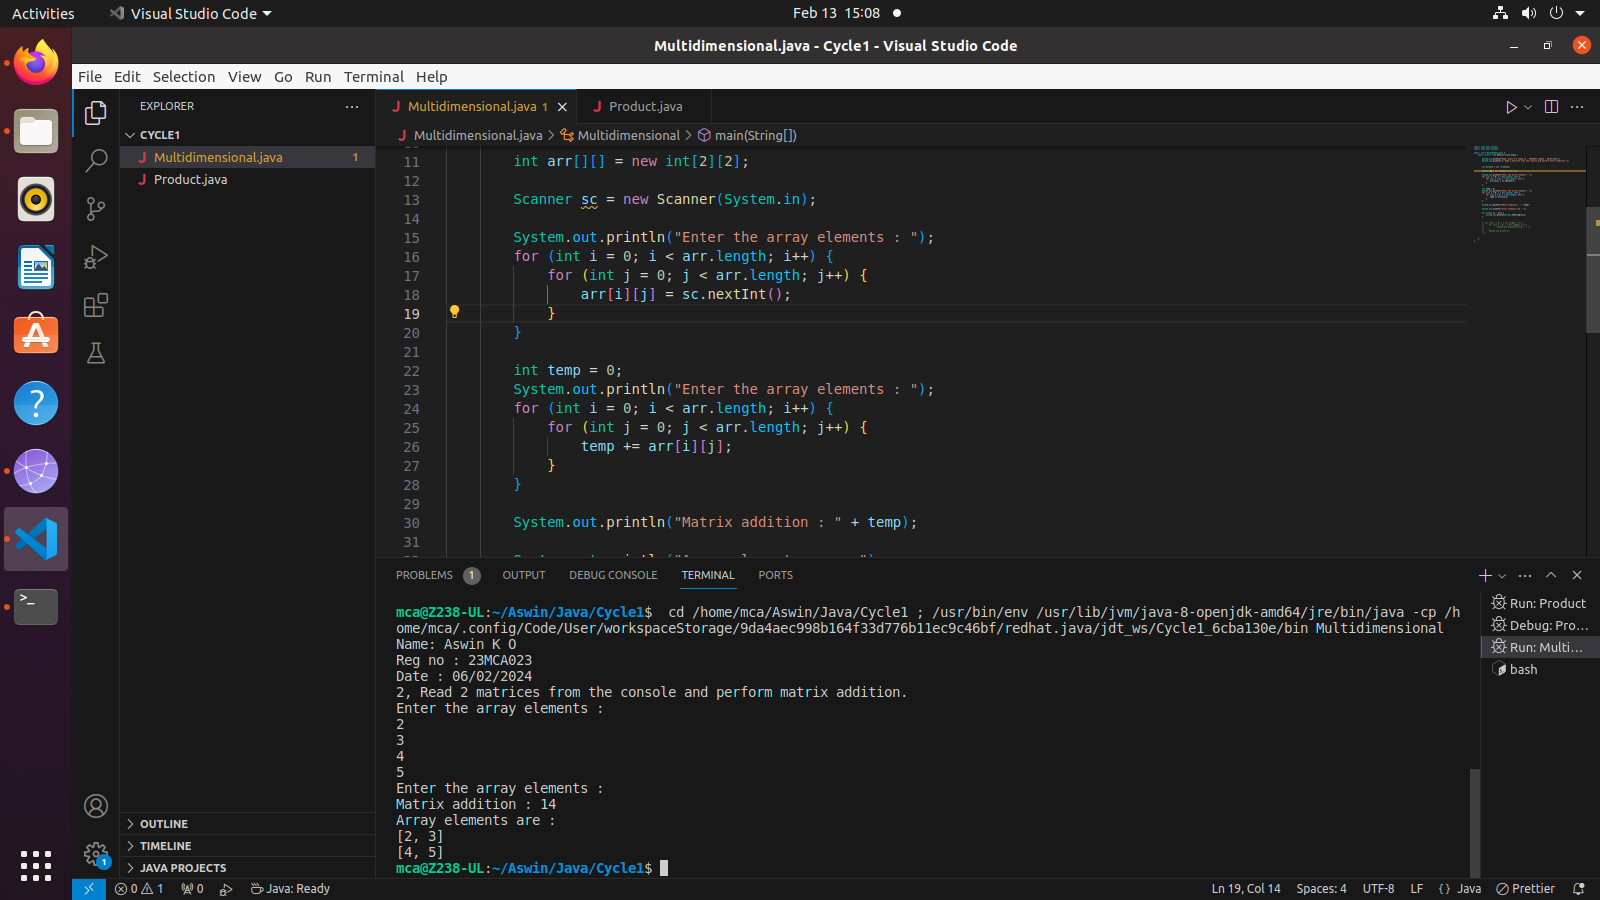
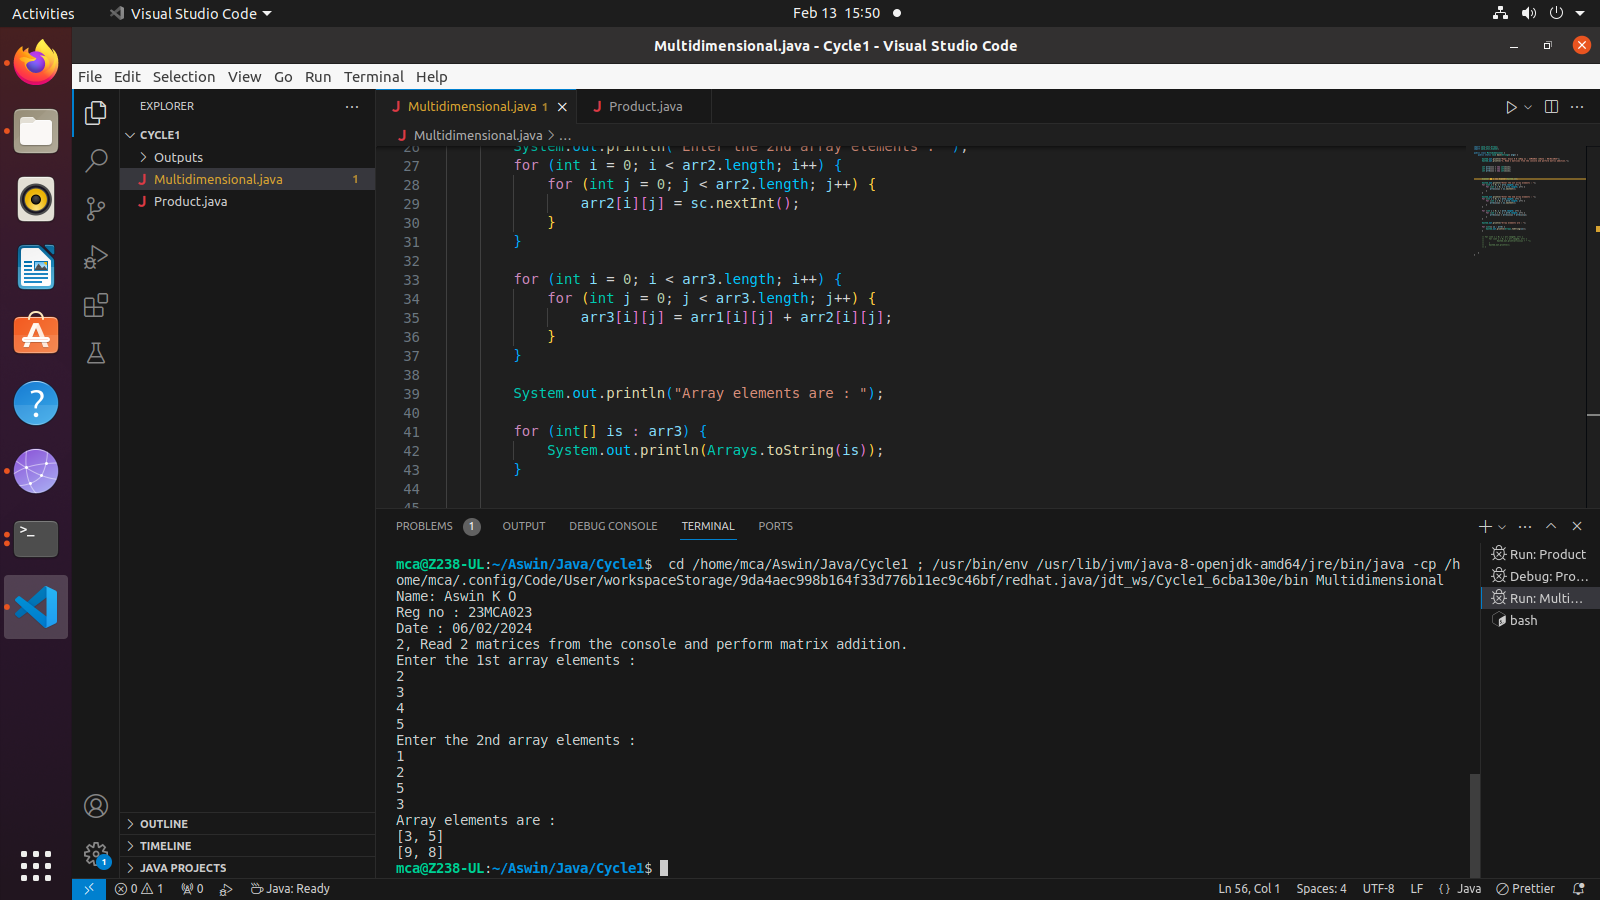
progrm 2 chamged

diff --git a/Cycle1/Multidimensional.java b/Cycle1/Multidimensional.java
@@ -8,30 +8,37 @@ public class Multidimensional {
         System.out.println("2, Read 2 matrices from the console and perform matrix addition.");
 
 
-        int arr[][] = new int[2][2];
+        int arr1[][] = new int[2][2];
+        int arr2[][] = new int[2][2];
+        int arr3[][] = new int[2][2];
+
+
 
         Scanner sc = new Scanner(System.in);
 
-        System.out.println("Enter the array elements : ");
-        for (int i = 0; i < arr.length; i++) {
-            for (int j = 0; j < arr.length; j++) {
-                arr[i][j] = sc.nextInt();
+        System.out.println("Enter the 1st array elements : ");
+        for (int i = 0; i < arr1.length; i++) {
+            for (int j = 0; j < arr1.length; j++) {
+                arr1[i][j] = sc.nextInt();
             }
         }
 
-        int temp = 0;
-        System.out.println("Enter the array elements : ");
-        for (int i = 0; i < arr.length; i++) {
-            for (int j = 0; j < arr.length; j++) {
-                temp += arr[i][j];
+        System.out.println("Enter the 2nd array elements : ");
+        for (int i = 0; i < arr2.length; i++) {
+            for (int j = 0; j < arr2.length; j++) {
+                arr2[i][j] = sc.nextInt();
             }
         }
 
-        System.out.println("Matrix addition : " + temp);
+        for (int i = 0; i < arr3.length; i++) {
+            for (int j = 0; j < arr3.length; j++) {
+                arr3[i][j] = arr1[i][j] + arr2[i][j];
+            }
+        }
 
         System.out.println("Array elements are : ");
 
-        for (int[] is : arr) {
+        for (int[] is : arr3) {
             System.out.println(Arrays.toString(is));
         }
 
